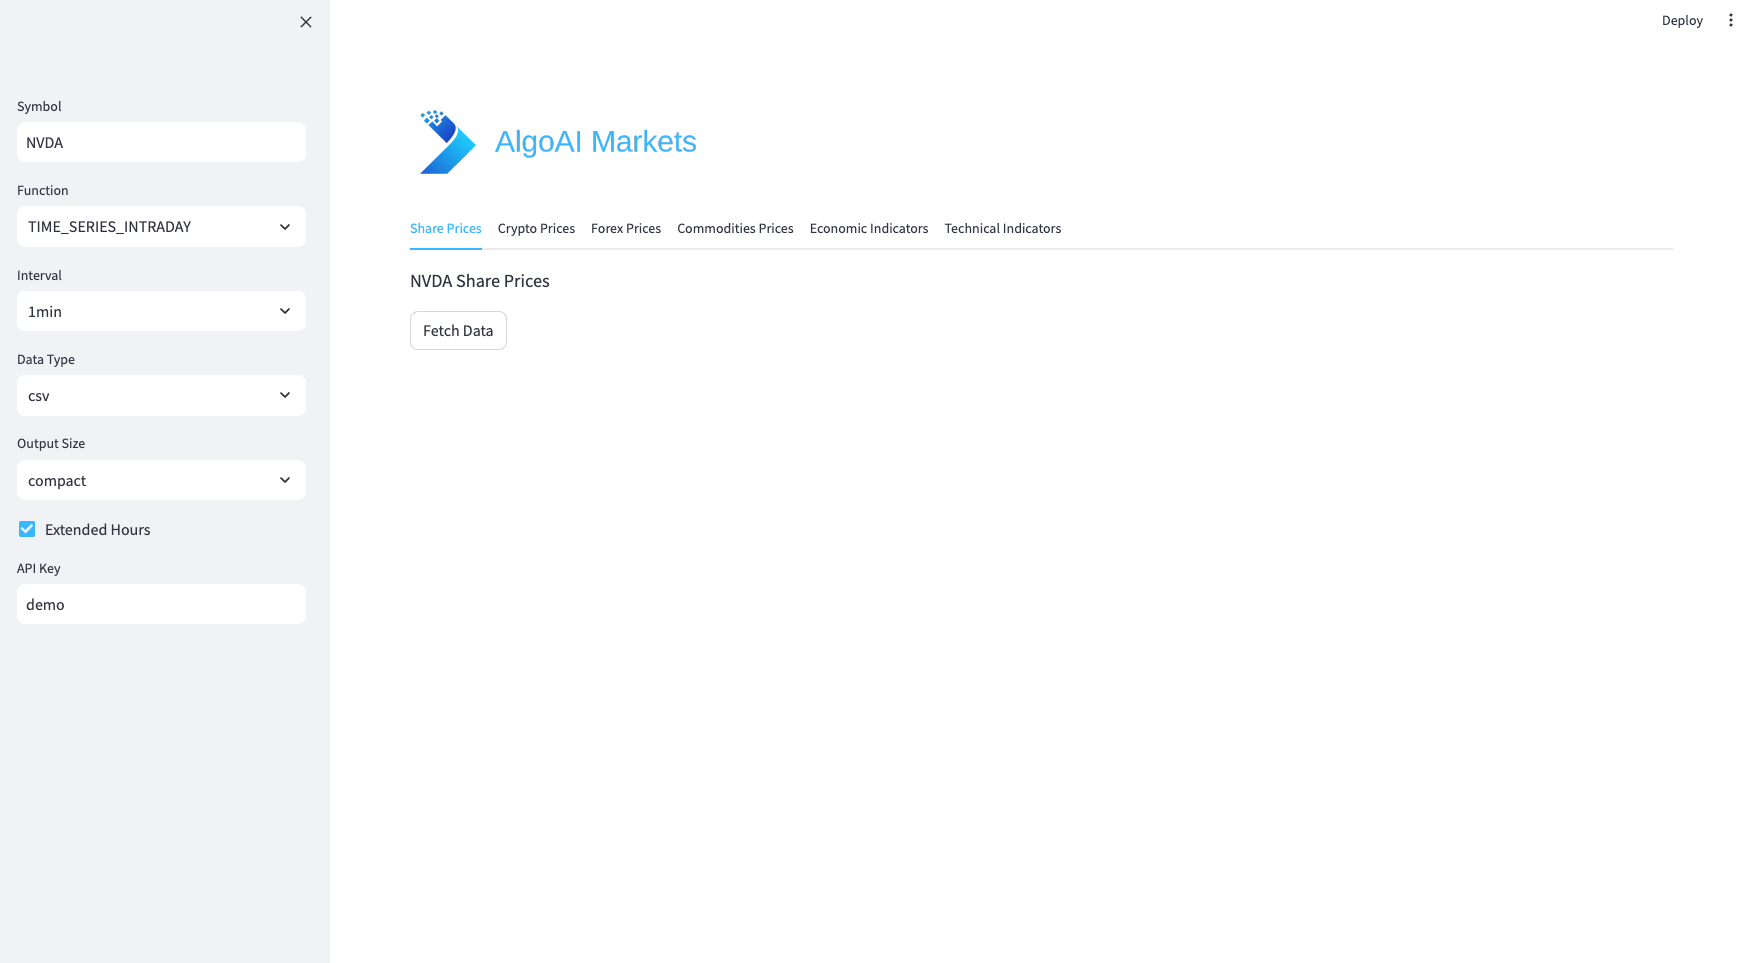
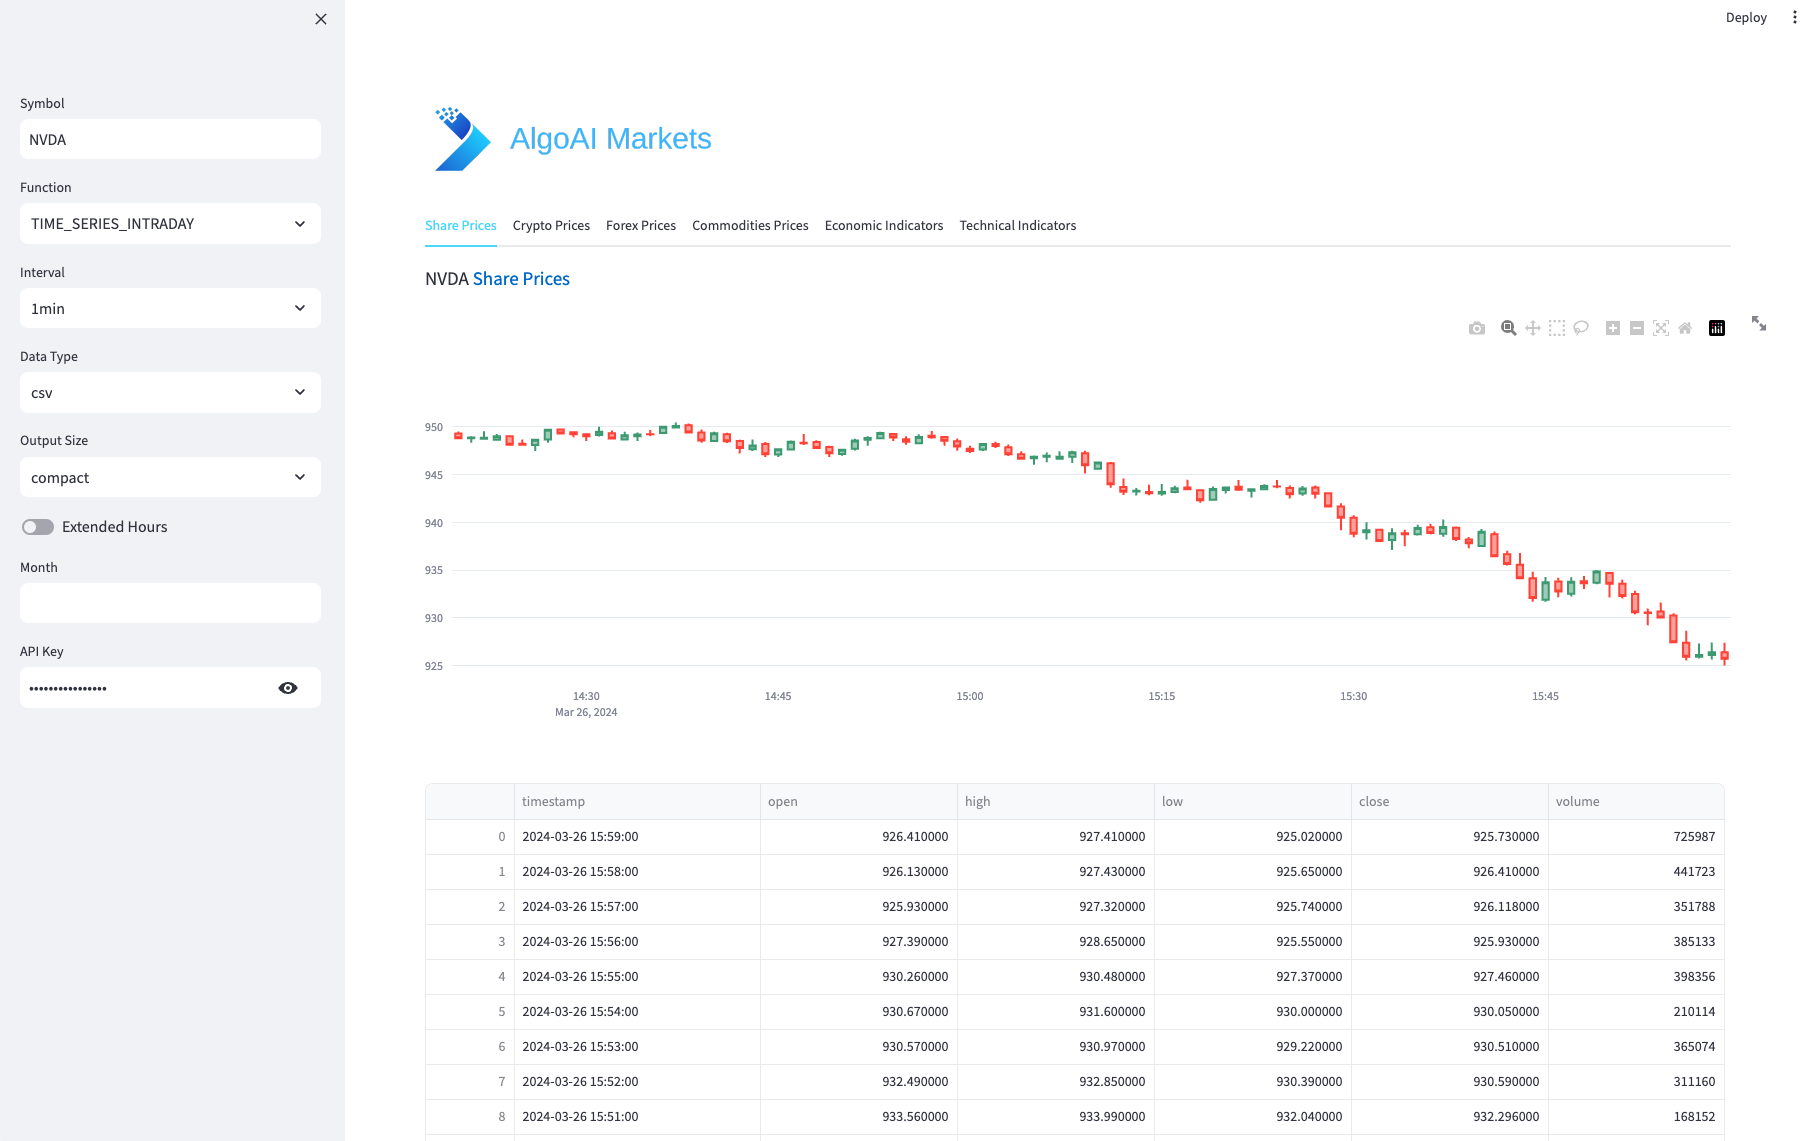
Added new images and improved graph

diff --git a/backend/shares.py b/backend/shares.py
@@ -15,14 +15,17 @@ warnings.filterwarnings("ignore", message="coroutine 'expire_cache' was never aw
 
 
 def plot_candlestick_chart(df):
-    fig = go.Figure(data=[go.Candlestick(x=df['timestamp'],
-                                         open=df['open'],
-                                         high=df['high'],
-                                         low=df['low'],
-                                         close=df['close'])])
+    if 'timestamp' in df.columns:
+        fig = go.Figure(data=[go.Candlestick(x=df['timestamp'],
+                                             open=df['open'],
+                                             high=df['high'],
+                                             low=df['low'],
+                                             close=df['close'])])
 
-    fig.update_layout(xaxis_rangeslider_visible=False)
-    st.plotly_chart(fig, use_container_width=True, config={'displayModeBar': False}, height=700)
+        fig.update_layout(xaxis_rangeslider_visible=False)
+        st.plotly_chart(fig, use_container_width=True, config={'displayModeBar': True}, height=700)
+    else:
+        st.warning("DataFrame does not contain 'timestamp' column.")
 
 
 def setup_page_config():
@@ -68,7 +71,7 @@ def share_prices(tab):
                 'extended': st.toggle('Extended Hours', False, key="share_extended"),
                 'month': st.text_input('Month', '2009-01', key="share_month"),
                 # 'month': st.date_input('Month', value=pd.to_datetime('2009-01'), key="share_month"),
-                'api_key': st.text_input('API Key', 'demo', key="share_api_key")
+                'api_key': st.text_input('API Key', 'demo', key="share_api_key", type="password")
             }
 
         # Fetch data based on the sidebar inputs
